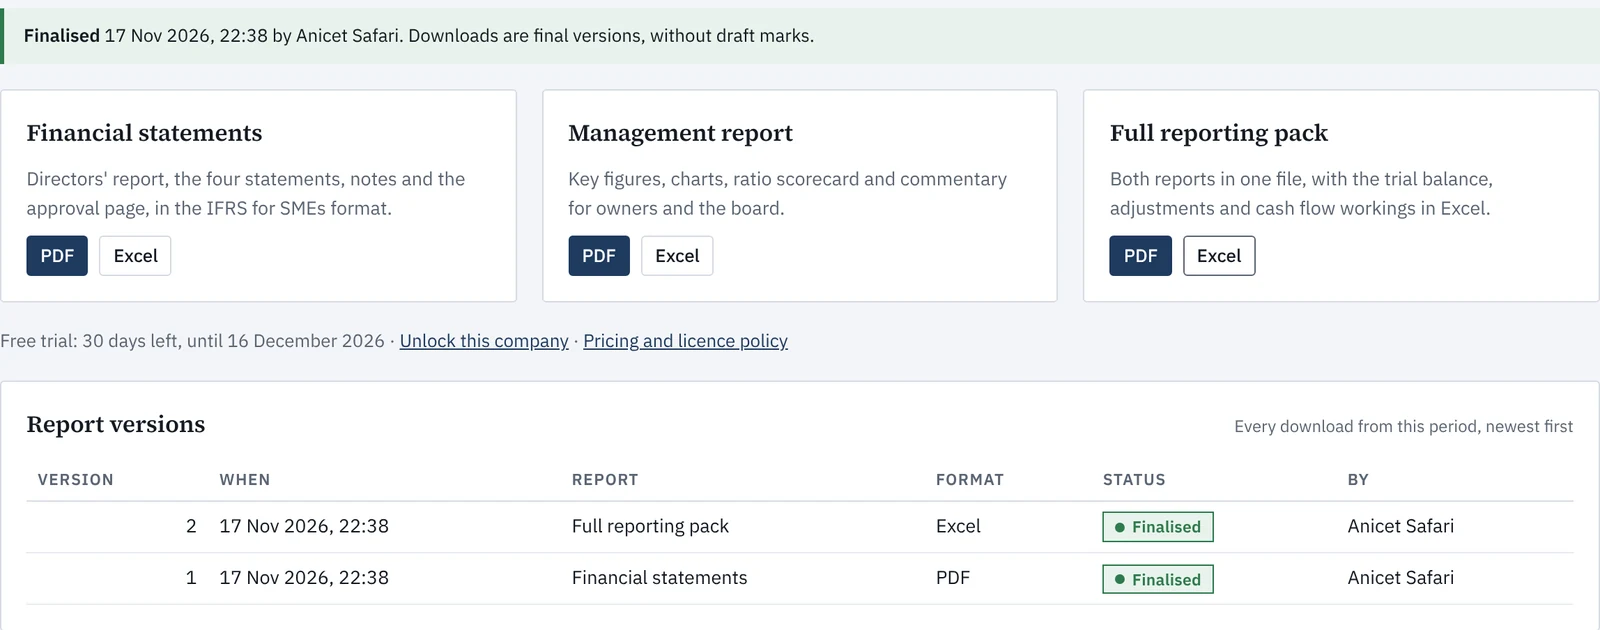
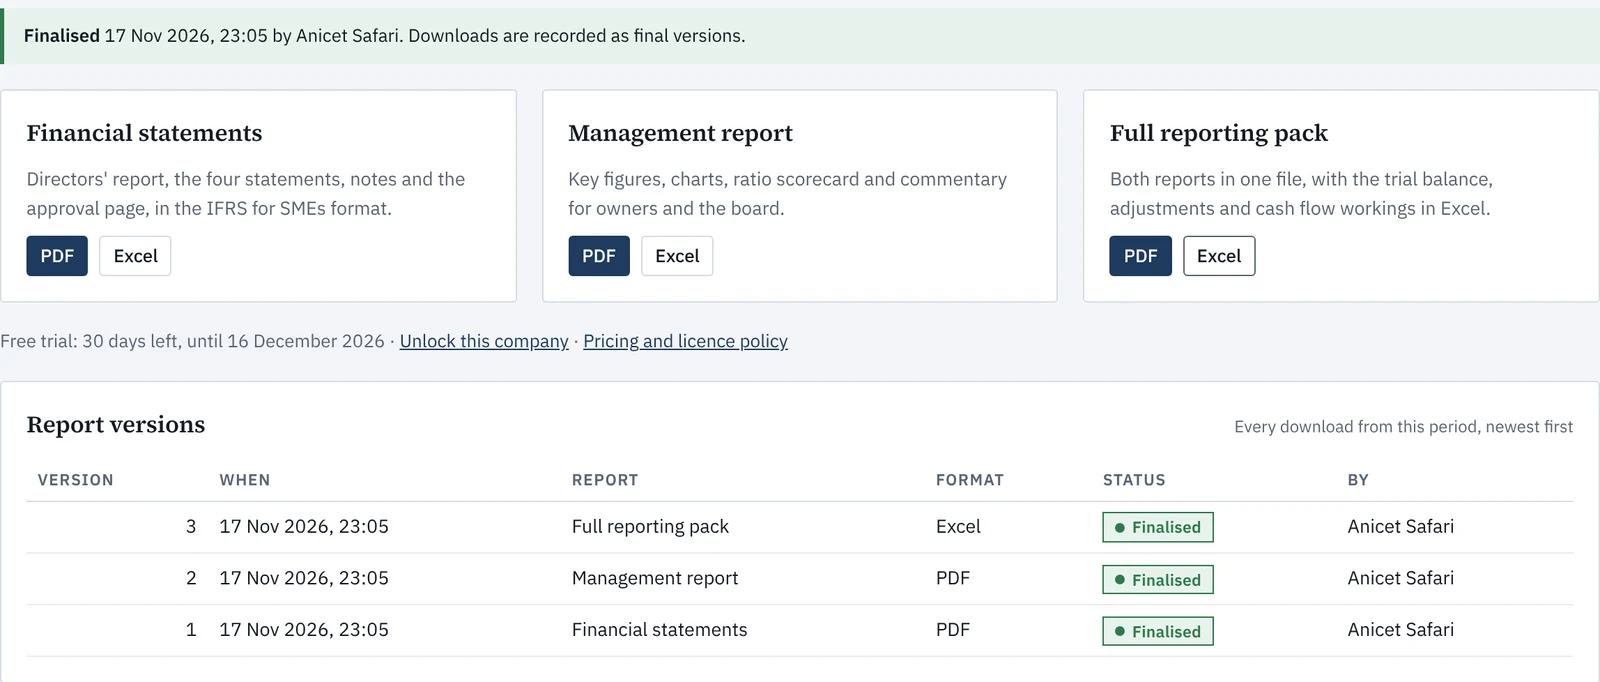
Remove the DRAFT mark from downloads
No watermark, margin note or DRAFT file name on PDF and Excel downloads, for example and client data. The review status is still recorded with each download, and finalised packs say so on the cover.

Claude-Session: https://claude.ai/code/session_01Qo2BPyBdZYjMbBFNcNoo1x

diff --git a/index.html b/index.html
@@ -771,8 +771,8 @@ table.lines.lg-rows input, table.lines.lg-rows select { width: 100%; padding: 6p
             <figcaption><b>Review.</b> The checks Acivaz runs itself, and the ones a reviewer confirms before the period is finalised.</figcaption>
           </figure>
           <figure class="fp-wide">
-            <img src="screen-export.webp" width="1600" height="630" alt="The Export screen with download buttons and a list of report versions" loading="lazy">
-            <figcaption><b>Export.</b> PDF and Excel. Drafts are marked on every page, and each download is kept as a version.</figcaption>
+            <img src="screen-export.webp" width="1600" height="682" alt="The Export screen with download buttons and a list of report versions" loading="lazy">
+            <figcaption><b>Export.</b> PDF and Excel. Each download is kept as a version, with the period's status at the time.</figcaption>
           </figure>
         </div>
       </div>
@@ -1335,7 +1335,7 @@ table.lines.lg-rows input, table.lines.lg-rows select { width: 100%; padding: 6p
             <p>Finalising records who finalised it and when. If the figures, mappings, adjustments, disclosures or commentary change afterwards, the period goes back to Draft and the checklist is cleared. Every step is kept in the review history with your name and any note.</p>
             <p>Acivaz checks arithmetic and completeness. It does not replace professional review, signing by the directors, or an assessment of compliance with the law or IFRS for SMEs.</p>
             <h3 id="m-wf-export">Export and versions</h3>
-            <p><strong>Export</strong> downloads the financial statements, the management report, or the full pack, as PDF or Excel. Until the period is finalised, every PDF page carries a pale DRAFT mark and a note in the top margin, the Excel cover and each sheet say DRAFT, and the file name ends in DRAFT. Each download is recorded as a numbered version with its status and who downloaded it.</p>
+            <p><strong>Export</strong> downloads the financial statements, the management report, or the full pack, as PDF or Excel. Each download is recorded as a numbered version with the period's status at the time and who downloaded it. Once a period is finalised, the PDF cover and the Excel cover sheet say so, with the date and the reviewer's name.</p>
             <h3 id="m-wf-backup">Full backup and restore</h3>
             <p>Everything is kept in this browser on this device. <strong>Back up everything</strong> in Clients downloads one file with every client, period, mapping, adjustment, disclosure, the books and attached auditor's reports. <strong>Restore a backup</strong> replaces the data in this browser with the file; this device's free trial and unlock codes are kept. If the backup came from another device with paid companies, Acivaz lists them and prepares a request for replacement codes. The top bar shows <strong>Saved</strong> with the time after each change. If the browser refuses to save (storage full, or a private window), a red warning appears: back up straight away.</p>
           </section>
@@ -4609,7 +4609,7 @@ async function exportPDF(only) {
     font("normal", 11); doc.text(plain(only === "bplan" ? `Built from the accounts for ${S.cur}` : `For ${S.cur}`), M, y); y += 6;
     doc.text(plain(`Amounts in ${unitText()} unless stated`), M, y); y += 6;
     { const pb = sgLine(SG().prep, SG().prepRole); doc.text(plain(`Prepared ${prepared}${pb ? " by " + pb : ""}`), M, y); y += 6; }
-    if (rep) { font("bold", 11); doc.text(plain(draft ? "DRAFT - not finalised. Do not sign or send as final." : `Final version, finalised ${niceStamp(RV.finalAt)}${RV.finalBy ? " by " + RV.finalBy : ""}`), M, y); y += 6; font("normal", 11); }
+    if (rep && effStatus() === "final") { font("bold", 11); doc.text(plain(`Final version, finalised ${niceStamp(RV.finalAt)}${RV.finalBy ? " by " + RV.finalBy : ""}`), M, y); y += 6; font("normal", 11); }
     doc.text(plain(only === "bplan" ? "Forecasts are management estimates. Confidential." : only === "fs" ? "Prepared in the IFRS for SMEs format. " + auditLine() : "Unaudited management accounts"), M, y); y += 14;
     font("bold", 11); doc.text("Contents", M, y); y += 2; doc.setLineWidth(0.25); doc.line(M, y, R, y);
     var tocY = y + 7;
@@ -5132,7 +5132,7 @@ async function exportXLSX(only) {
   const R0 = v => v === null || v === undefined || !isFinite(v) ? "" : Math.round(v);
   const part = !only ? "all" : only === "mgmt" || only === "fs" ? only : null;
   const X = xlBook({ company: S.company, title: (only && TASK_TITLE[only]) || "Management accounts", period: S.cur, unit: `Amounts in ${S.currency}`, fs: part === "fs", draft,
-    status: !rep ? "" : draft ? "DRAFT - not finalised. Do not sign or send as final." : `Final version, finalised ${niceStamp(RV.finalAt)}${RV.finalBy ? " by " + RV.finalBy : ""}` });
+    status: rep && effStatus() === "final" ? `Final version, finalised ${niceStamp(RV.finalAt)}${RV.finalBy ? " by " + RV.finalBy : ""}` : "" });
   if (part === "all" || part === "mgmt") {
     if (bud || cmp) {
       const rows = [["", S.cur].concat(bud ? [S.bud || "Budget", "Variance", "Variance %"] : []).concat(cmp ? [S.cmp, "Change", "Change %"] : [])];
@@ -7100,7 +7100,7 @@ function renderReview() {
     `<label>Note for the history (optional)<textarea id="rv-note" placeholder="For example: queries raised with the client, or what was checked"${isSample ? " disabled" : ""}></textarea></label>` +
     `<div class="actions">${btns}</div>` +
     (st !== "final" && bl.length ? `<p class="help" style="margin:0"><strong>Before finalising:</strong> ${bl.map(esc).join("; ")}.</p>` : "") +
-    `<p class="help" style="margin:0">Until a period is finalised, every download is marked DRAFT. Acivaz checks that the figures add up and the pack is complete. It does not replace professional review, signing by the directors, or an assessment of compliance with the law or IFRS for SMEs.</p>`;
+    `<p class="help" style="margin:0">Each download records the period's status at the time. Acivaz checks that the figures add up and the pack is complete. It does not replace professional review, signing by the directors, or an assessment of compliance with the law or IFRS for SMEs.</p>`;
   const h = (RV && RV.history) || [];
   $("rv-history").innerHTML = h.length ? `<table class="rv-hist"><thead><tr><th>When</th><th>Who</th><th>What</th><th>Note</th></tr></thead><tbody>${h.map(x => `<tr><td style="white-space:nowrap">${esc(niceStamp(x.at))}</td><td>${esc(x.by || "–")}</td><td>${esc(x.act)}</td><td>${esc(x.note || "")}</td></tr>`).join("")}</tbody></table>` : `<p class="help">Nothing yet. Imports, adjustments and status changes are recorded here.</p>`;
 }
@@ -7117,7 +7117,7 @@ document.addEventListener("click", e => {
   if (!userName() && act !== "back") { toast("Enter your name first, so the history shows who did this."); $("rv-user").focus(); return; }
   if (act === "submit") { RV.status = "review"; reviewLog("Sent for review", note); toast("Sent for review. The reviewer confirms the checklist, then finalises."); }
   else if (act === "back") { RV.status = "draft"; reviewLog("Returned to draft", note); toast("Back to Draft."); }
-  else if (act === "reopen") { RV.status = "draft"; RV.ticks = {}; RV.finalFp = null; reviewLog("Reopened for changes", note); toast("Reopened. Downloads are marked DRAFT until you finalise again."); }
+  else if (act === "reopen") { RV.status = "draft"; RV.ticks = {}; RV.finalFp = null; reviewLog("Reopened for changes", note); toast("Reopened. Finalise again when the review is done."); }
   else if (act === "final") {
     const bl = reviewBlockers();
     if (bl.length) { toast("Finish the checklist first: " + bl[0] + "."); return; }
@@ -7130,7 +7130,7 @@ document.addEventListener("click", e => {
 /* ---------- Export ---------- */
 const REP_LABEL = { all: "Full reporting pack", fs: "Financial statements", mgmt: "Management report" };
 const isRepExport = only => !only || only === "fs" || only === "mgmt";
-const draftExport = only => isRepExport(only) && effStatus() !== "final";
+const draftExport = () => false; /* Draft marks on downloads are switched off; the review status is still recorded with each version */
 function recordExport(only, fmt) {
   if (isSample || !RV || !isRepExport(only)) return;
   RV.versions = RV.versions || [];
@@ -7146,8 +7146,8 @@ function renderExport() {
   $("ex-title").textContent = p ? "Export · " + p.label : "Export";
   $("ex-sub").textContent = p ? `${c.name} · PDF and Excel, prepared in this browser` : "Example data";
   $("ex-status").innerHTML = st === "final"
-    ? `<div class="notice good"><span><strong>Finalised</strong> ${esc(niceStamp(RV.finalAt))}${RV.finalBy ? " by " + esc(RV.finalBy) : ""}. Downloads are final versions, without draft marks.</span></div>`
-    : `<div class="notice warn"><span><strong>${esc(RS_TEXT[st])}.</strong> Each PDF page and each Excel cover sheet is marked DRAFT until this period is finalised in Review.</span>${isSample ? "" : `<button class="linkish" type="button" data-view="review">Go to Review</button>`}</div>`;
+    ? `<div class="notice good"><span><strong>Finalised</strong> ${esc(niceStamp(RV.finalAt))}${RV.finalBy ? " by " + esc(RV.finalBy) : ""}. Downloads are recorded as final versions.</span></div>`
+    : `<div class="notice warn"><span><strong>${esc(RS_TEXT[st])}.</strong> This period is not finalised yet. Downloads are recorded with this status in the list of versions below.</span>${isSample ? "" : `<button class="linkish" type="button" data-view="review">Go to Review</button>`}</div>`;
   $("ex-plan").innerHTML = PW_ON ? `${$("plan-status").innerHTML || ""} · <button class="linkish" type="button" data-goto-pricing>Pricing and licence policy</button>` : "";
   const v = (RV && RV.versions) || [];
   $("ex-versions").innerHTML = v.length ? `<table class="ex-ver"><thead><tr><th>Version</th><th>When</th><th>Report</th><th>Format</th><th>Status</th><th>By</th></tr></thead><tbody>${v.map(x => `<tr><td class="n">${x.n}</td><td style="white-space:nowrap">${esc(niceStamp(x.at))}</td><td>${esc(REP_LABEL[x.what] || x.what)}</td><td>${x.fmt === "pdf" ? "PDF" : "Excel"}</td><td>${rsChip(x.status)}</td><td>${esc(x.by || "–")}</td></tr>`).join("")}</tbody></table>` : `<p class="help">${isSample ? "Versions are recorded for your own clients." : "No downloads from this period yet."}</p>`;

diff --git a/sw.js b/sw.js
@@ -1,5 +1,5 @@
 // Acivaz offline cache. Bump VERSION when you publish changes.
-const VERSION = "acivaz-v29";
+const VERSION = "acivaz-v30";
 const SHELL = [
   "./", "index.html", "manifest.webmanifest",
   "icon-192.png", "icon-512.png", "icon-maskable-512.png", "apple-touch-icon.png", "favicon-32.png",

diff --git a/README.md b/README.md
@@ -15,7 +15,7 @@ Prepare draft financial statements, notes and management reports. Review account
 - **Map.** Put each account on a line of the reports.
 - **Adjust.** Post balanced adjusting entries on top of the import. The import is never changed, and the adjusted trial balance shows the imported, adjustment and adjusted amounts.
 - **Review.** Each period is **Draft**, **Needs review** or **Finalised**. Acivaz checks the trial balance, mapping, balance sheet and cash flow. The reviewer then confirms the mappings, reconciliations, adjustments, disclosures and approval. If anything changes after finalising, the period goes back to Draft. Every step is kept in the review history.
-- **Export.** Financial statements, management report or the full pack, as PDF and Excel. Until a period is finalised, every page is marked DRAFT. Each download is recorded as a numbered version.
+- **Export.** Financial statements, management report or the full pack, as PDF and Excel. Each download is recorded as a numbered version with the period's status; finalised packs say so on the cover.
 
 What the reports contain:
 
